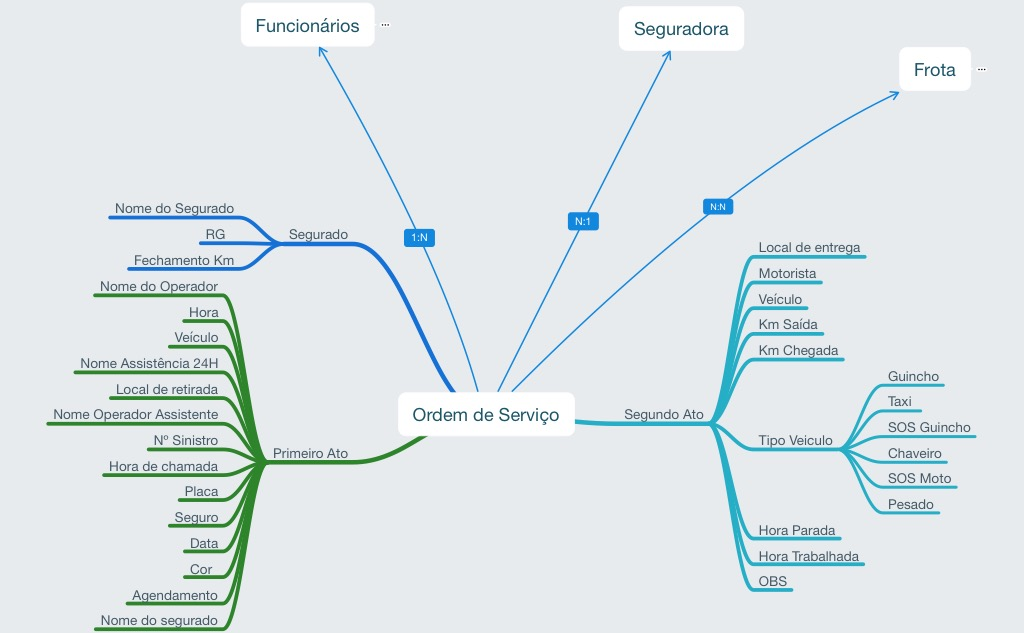
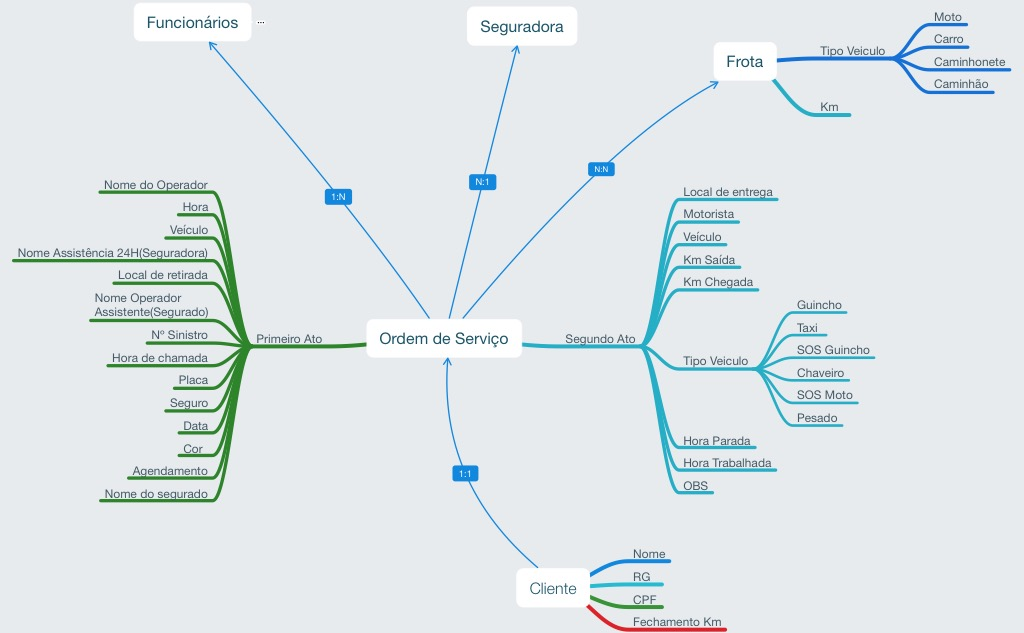
Relações/Icones
-Relações das Tabelas
-Nova Pasta Resources
-Novos Icones originais
-Nova Tabela Seguro
-Novas Imagens
-Novo Site Publico/Privado
-Alterações no Mapa Mental

diff --git a/Website/index.html b/Website/index.html
@@ -1,0 +1,18 @@
+<!DOCTYPE html>
+<html>
+  <head>
+    <meta charset="utf-8">
+    <title>Amaral Guinchos</title>
+  </head>
+  <body>
+    <nav>
+      <ul>
+        <li><a href="index.html"><img src="resources/logotipo.png"/></a></li>
+        <li><a href="websites/login.html">Login</a></li>
+        <li><a href-"websites/join.html">Cadastre-se</a></li>
+        <li><a href="websites/contato.html">Contato</a></li>
+      </ul>
+    </nav>
+    <img src="resources/frota.jpg" alt="frota"/>
+  </body>
+</html>
